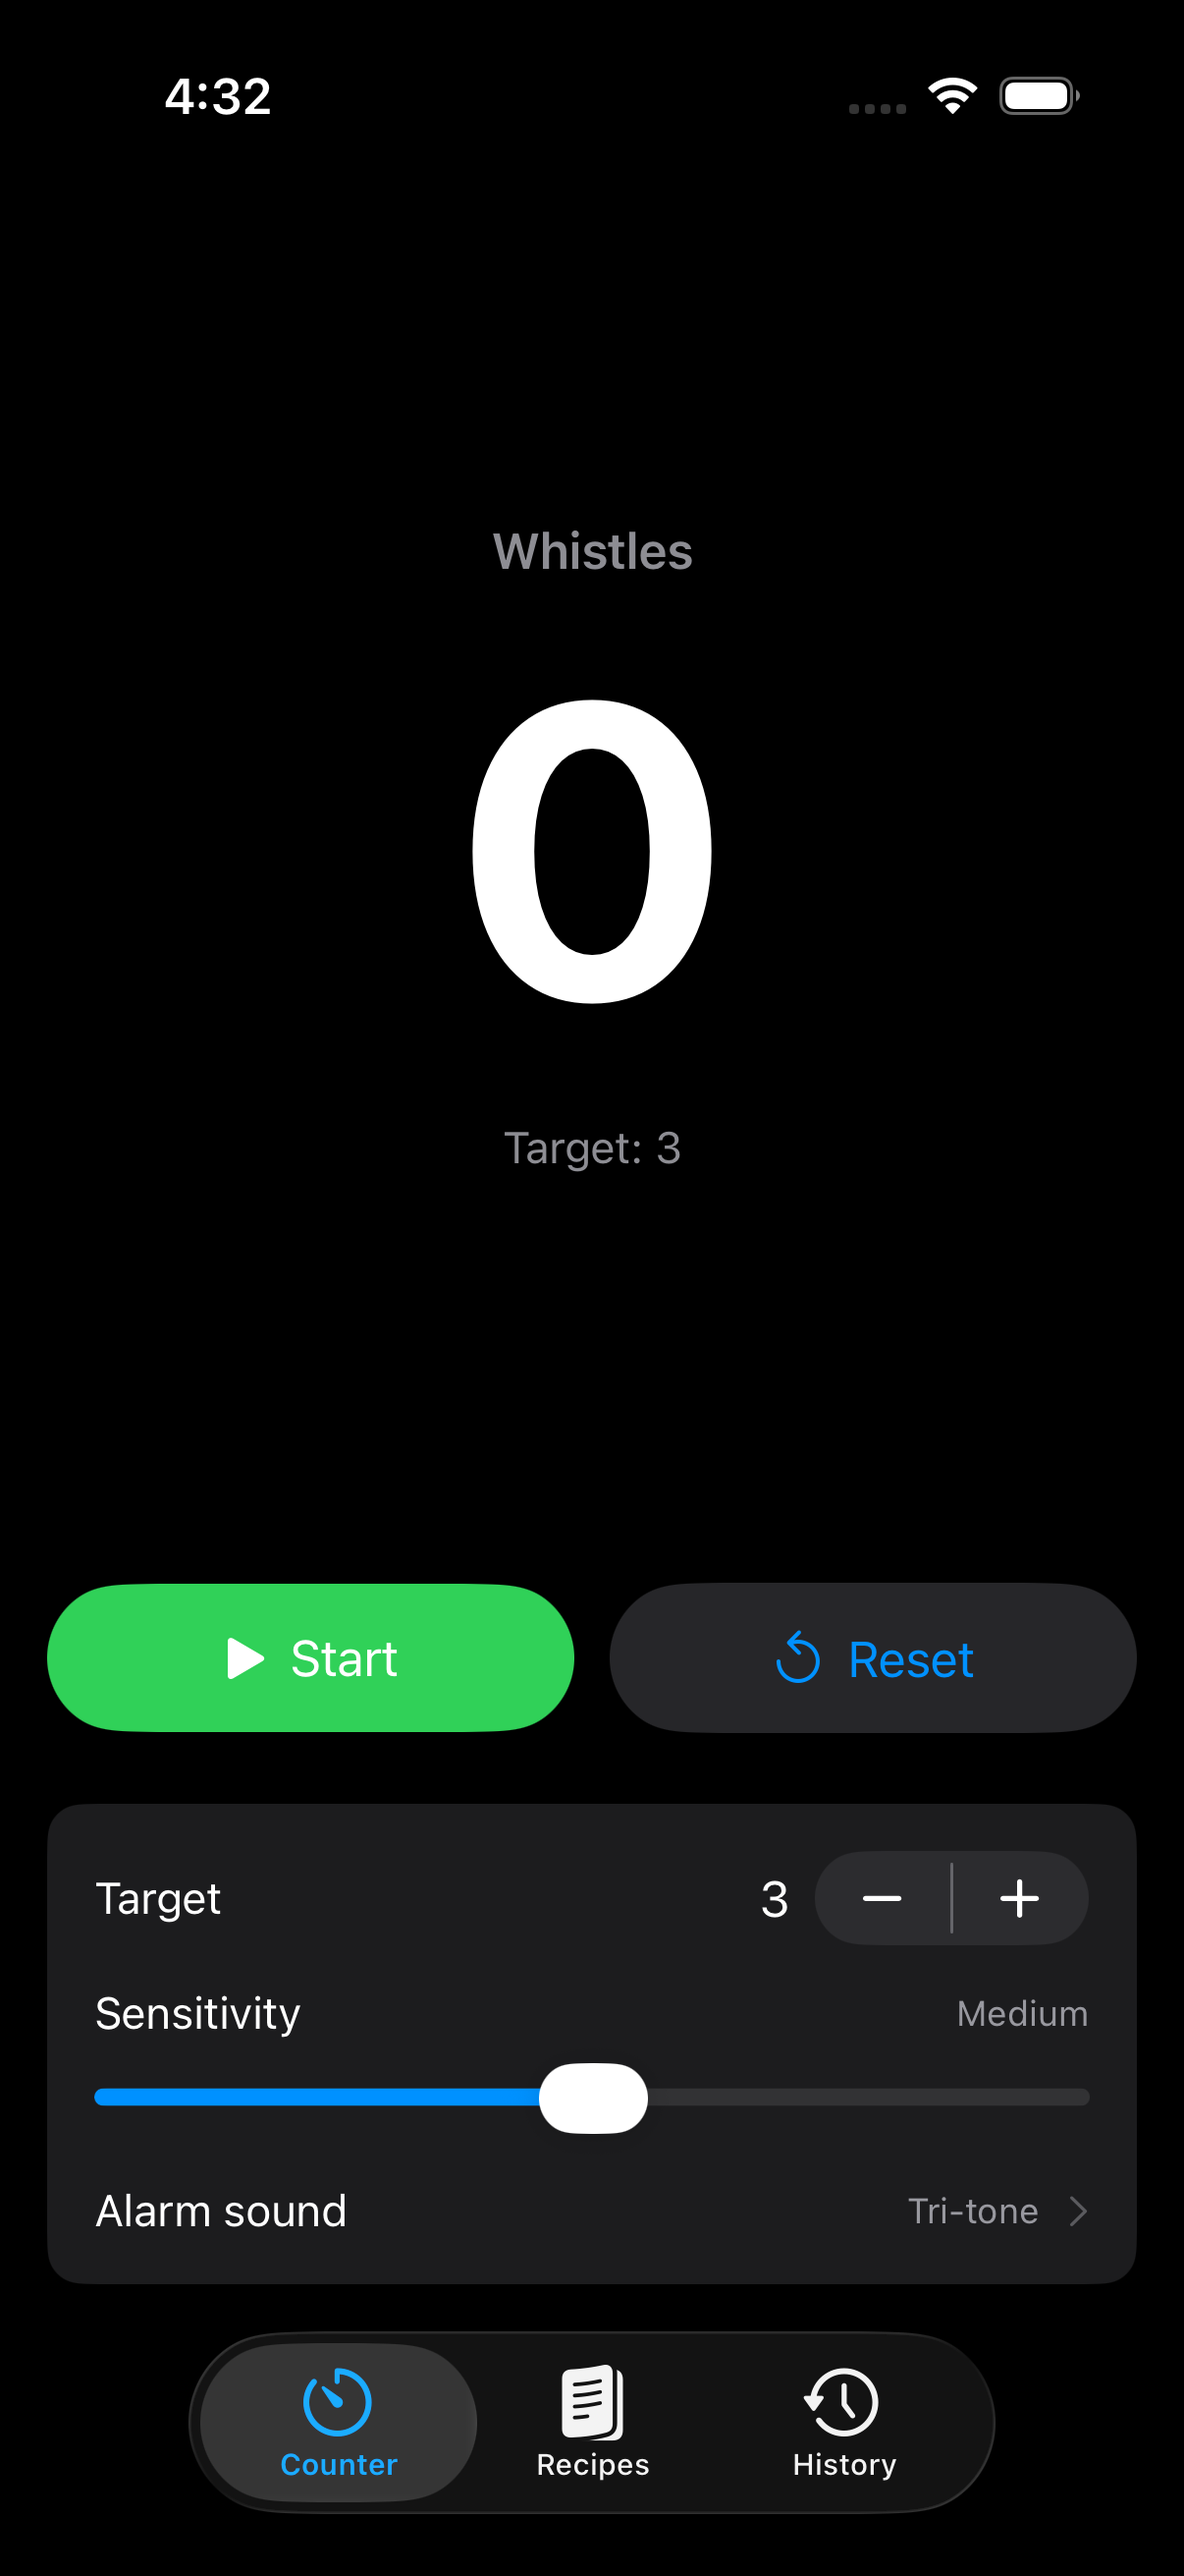
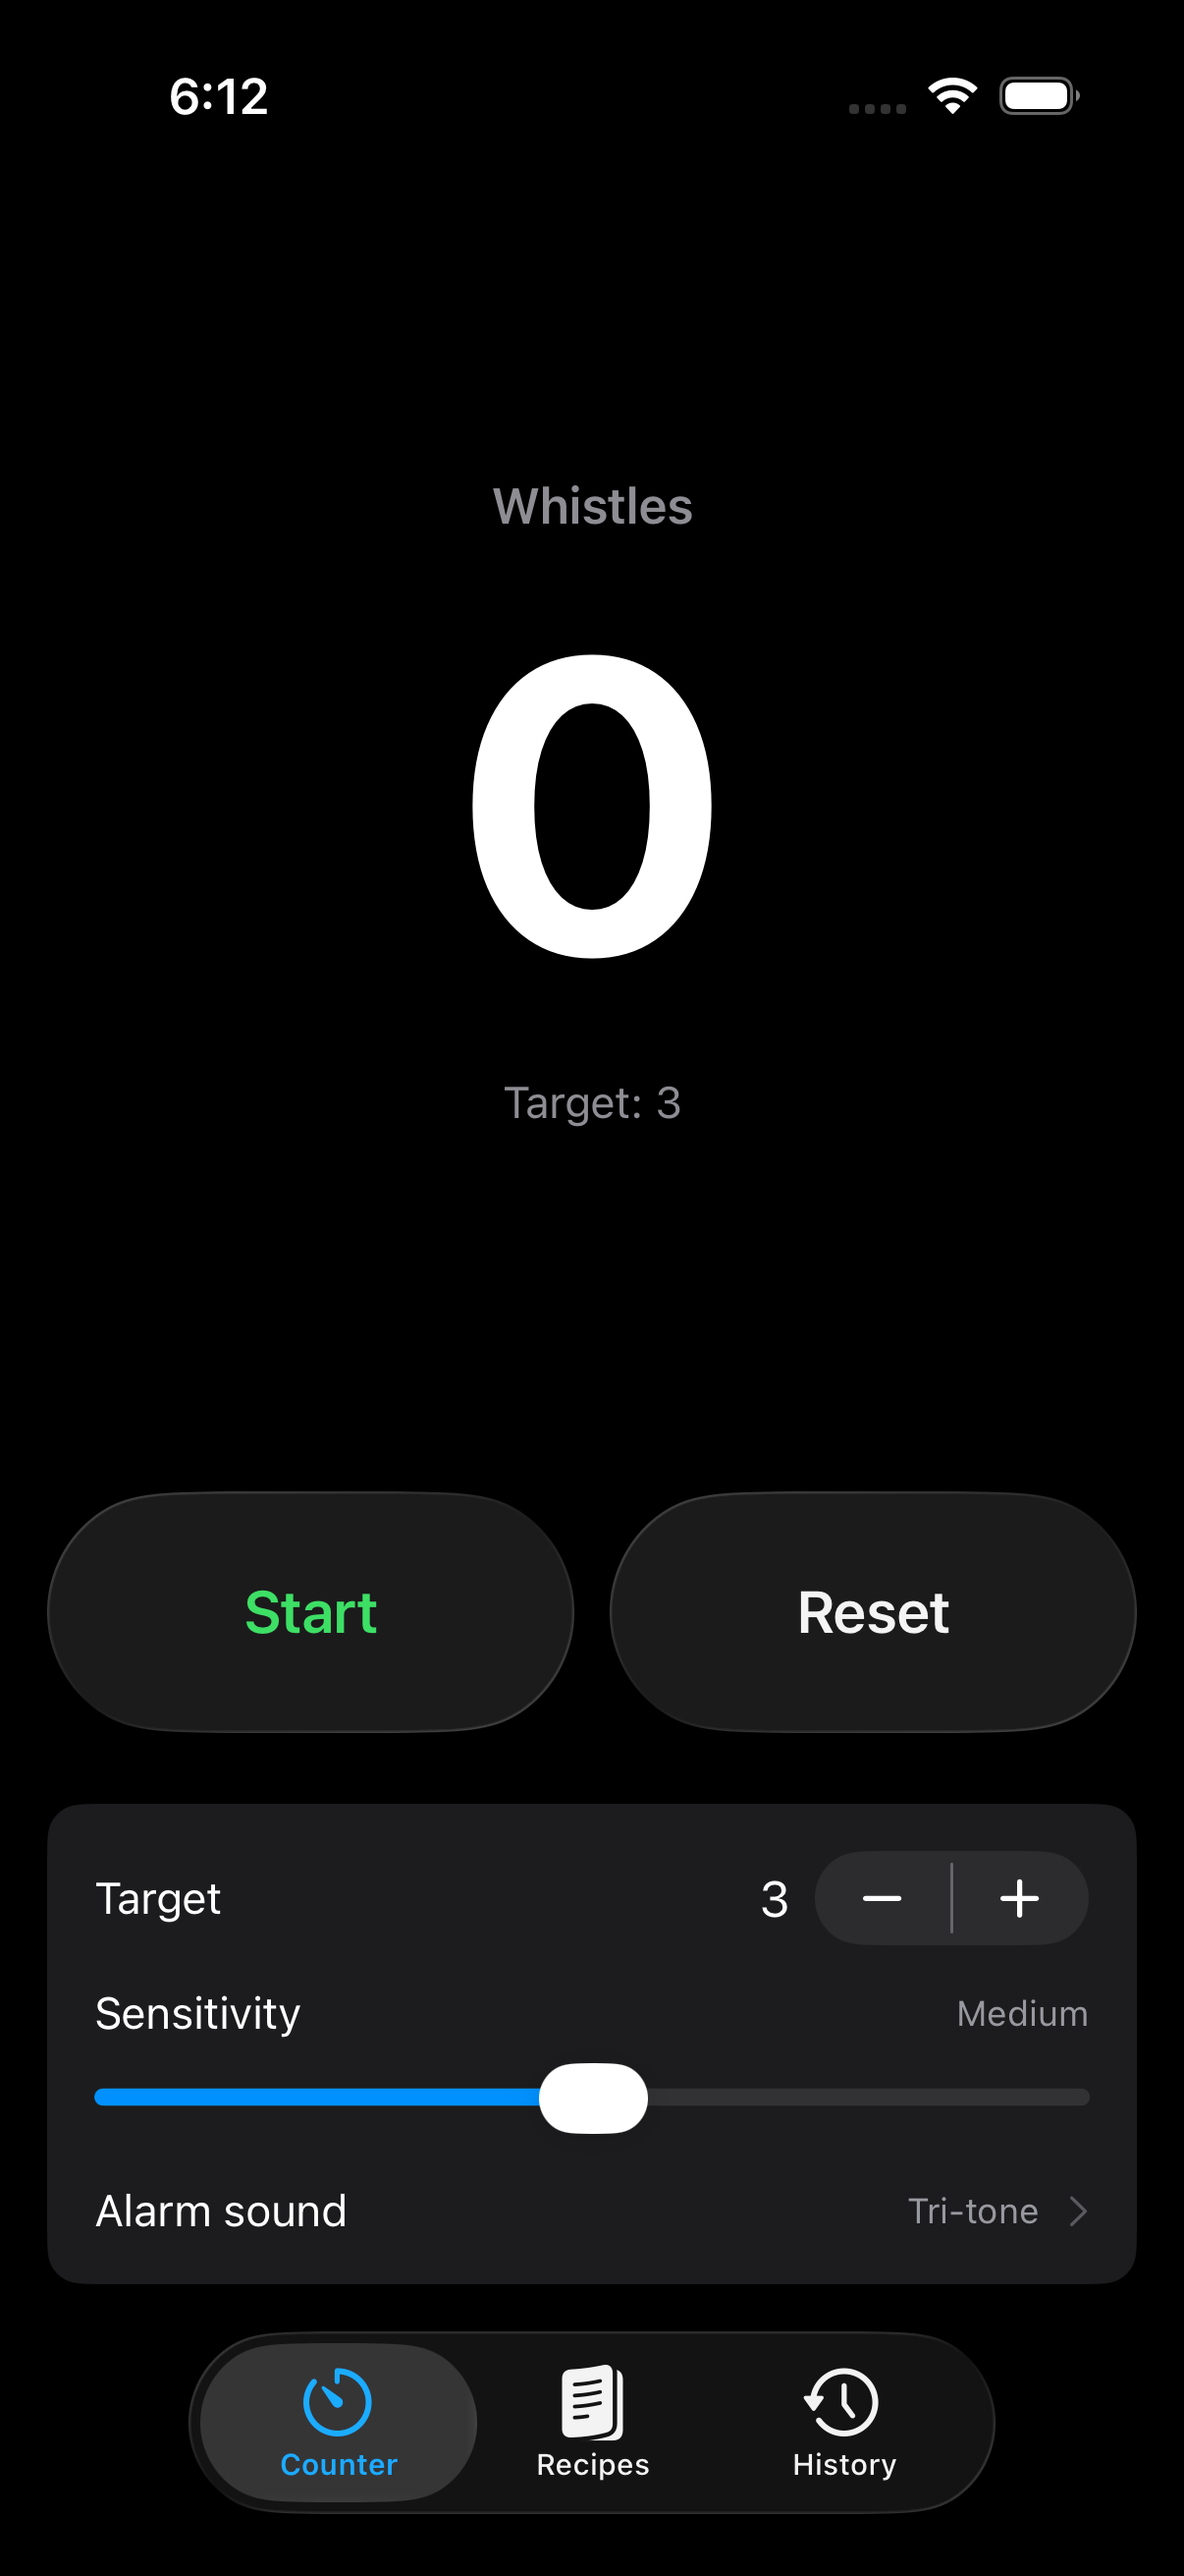
Update screenshots and README with new Liquid Glass UI
- Refresh Counter tab light/dark with the new glass pill buttons.
- Add Recipes tab (list with glass play buttons) and History tab
  (empty state) screenshots.
- README now shows a 3-up Light row + 1 dark sample.
- docs/screenshots/README gets a reproducible capture script that
  uses cliclick to tap between tabs.

diff --git a/docs/screenshots/README.md b/docs/screenshots/README.md
@@ -1,37 +1,44 @@
 # Screenshots
 
-The repo ships with two screenshots of the Counter tab (light + dark). The
-remaining screenshots (Recipes tab, History tab, Alarm sound picker) need
-to be captured manually because macOS UI automation is blocked by
-accessibility permissions.
+The repo ships with screenshots of the three main tabs (Counter, Recipes,
+History) plus a dark-mode Counter. These are regenerated from the iOS
+simulator using a mix of `xcrun simctl io screenshot` and `cliclick`
+for programmatic tapping.
 
-## How to add the remaining screenshots
+## How to regenerate
 
-1. Boot the simulator and install the app:
-   ```bash
-   xcrun simctl boot A51E1950-7C79-40B7-BBD2-B9B2D64AA50E
-   open -a Simulator
-   xcodebuild -project WhistleCounter.xcodeproj \
-     -scheme WhistleCounter \
-     -destination 'platform=iOS Simulator,id=A51E1950-7C79-40B7-BBD2-B9B2D64AA50E' \
-     -configuration Debug \
-     -derivedDataPath build \
-     build
-   xcrun simctl install booted build/Build/Products/Debug-iphonesimulator/WhistleCounter.app
-   xcrun simctl launch booted com.alvisf.WhistleCounter
-   ```
-2. Tap through each tab you want to capture.
-3. In the Simulator app, **File → Save Screen (⌘S)** saves a PNG to
-   `~/Desktop`. Rename and move to `docs/screenshots/` following the
-   naming convention below.
+```bash
+# macOS + cliclick required
+brew install cliclick
 
-## Naming convention
+# Ensure the app is installed and the simulator is booted
+xcrun simctl boot A51E1950-7C79-40B7-BBD2-B9B2D64AA50E   # or your device id
+open -a Simulator
+xcrun simctl launch booted com.alvisf.WhistleCounter
+
+# Counter — light + dark
+xcrun simctl ui booted appearance light
+xcrun simctl io booted screenshot docs/screenshots/01-counter-light.png
+xcrun simctl ui booted appearance dark
+xcrun simctl io booted screenshot docs/screenshots/01-counter-dark.png
+
+# Tap the Recipes tab (coords depend on your simulator window position)
+# Find the Simulator window bounds:
+#   osascript -e 'tell application "System Events" to tell process "Simulator" to get {position, size} of window 1'
+# Tab bar is ~80px from the bottom, Recipes is the middle tab.
+cliclick c:1852,1158  # adjust x/y for your setup
+xcrun simctl io booted screenshot docs/screenshots/02-recipes-light.png
+
+# History tab — right side of the tab bar
+cliclick c:2004,1158
+xcrun simctl io booted screenshot docs/screenshots/03-history-light.png
+```
+
+## Files
 
 | File | Contents |
 |---|---|
-| `01-counter-light.png` | Counter tab, light appearance (ships with repo) |
-| `01-counter-dark.png`  | Counter tab, dark appearance (ships with repo) |
-| `02-recipes.png`       | Recipes tab, light appearance |
-| `03-history.png`       | History tab with at least one saved session |
-| `04-alarm-picker.png`  | Counter → Alarm sound picker |
-| `05-recipe-edit.png`   | New/edit recipe sheet |
+| `01-counter-light.png` | Counter tab, light appearance |
+| `01-counter-dark.png`  | Counter tab, dark appearance |
+| `02-recipes-light.png` | Recipes tab with seeded recipes |
+| `03-history-light.png` | History tab (empty-state or populated) |

diff --git a/README.md b/README.md
@@ -9,8 +9,13 @@ Built in SwiftUI with `AVAudioEngine` + `vDSP` for real-time FFT. All
 processing is on-device — no accounts, no cloud, no telemetry.
 
 <p align="center">
-  <img src="docs/screenshots/01-counter-light.png" width="260" alt="Counter tab (light)" />
-  <img src="docs/screenshots/01-counter-dark.png"  width="260" alt="Counter tab (dark)" />
+  <img src="docs/screenshots/01-counter-light.png" width="240" alt="Counter tab" />
+  <img src="docs/screenshots/02-recipes-light.png" width="240" alt="Recipes tab" />
+  <img src="docs/screenshots/03-history-light.png" width="240" alt="History tab" />
+</p>
+
+<p align="center">
+  <img src="docs/screenshots/01-counter-dark.png" width="240" alt="Counter tab — dark mode" />
 </p>
 
 ## Features
